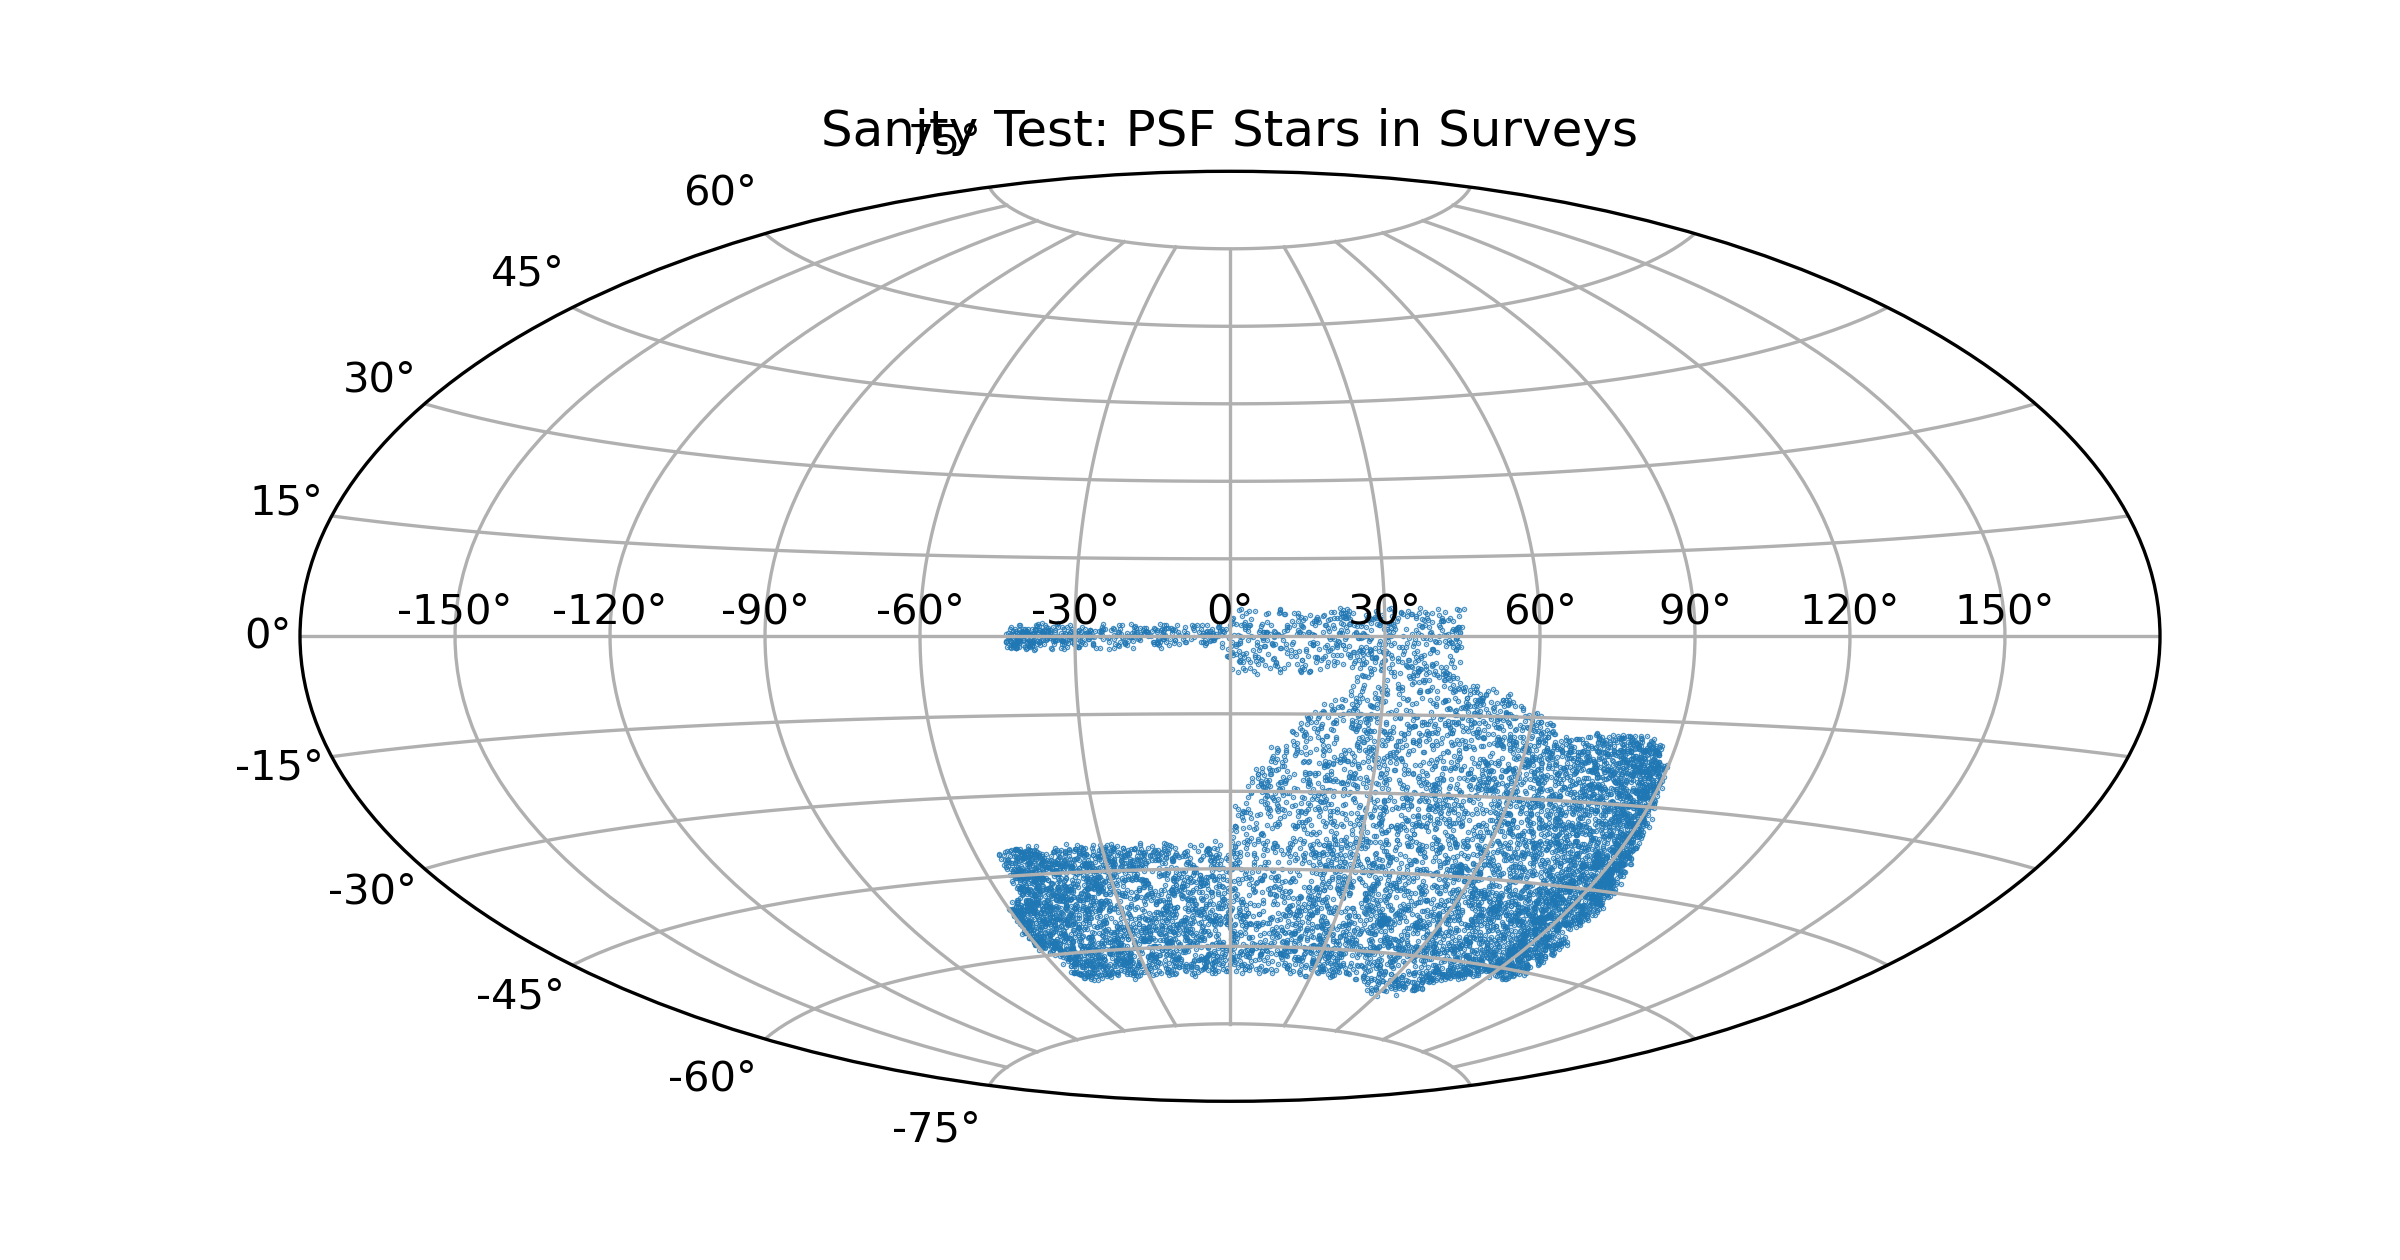
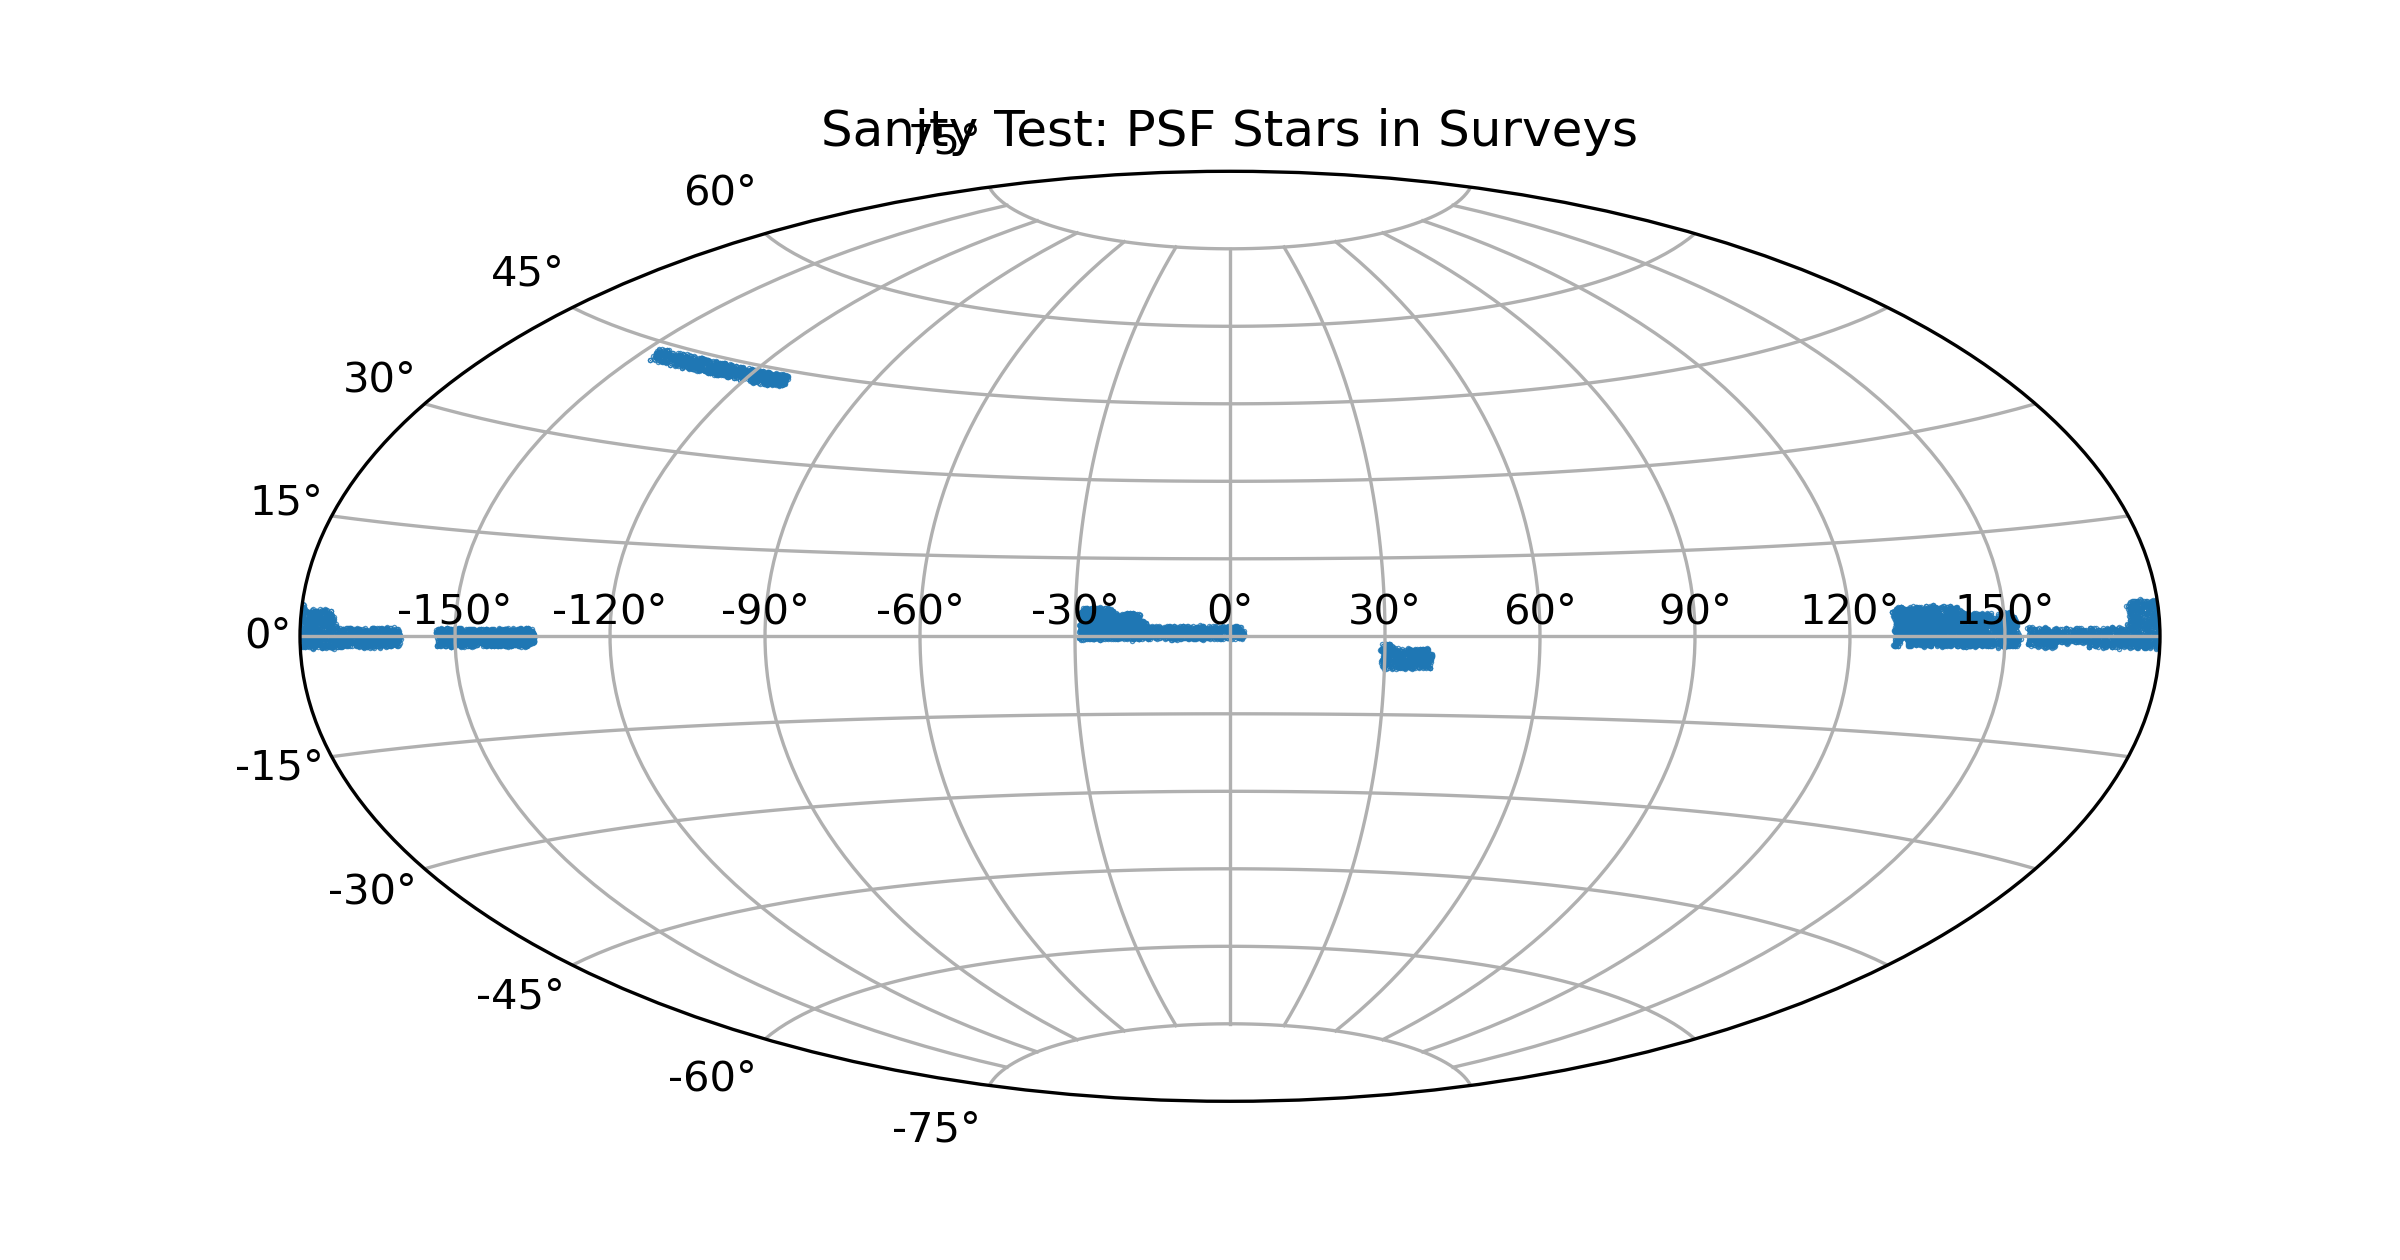
many changes for hscy3 files

diff --git a/src/query_hscy3.py b/src/query_hscy3.py
@@ -16,6 +16,7 @@ import match
 BAND = 'i'
 PSF_DATA_FILEPATH = "../../psf_data/hscy3_allfields.h5"
 RESULTS_FILEPATH = "../results/"
+NUMBER_OF_CLUSTERS = 10
 TOTAL_SUBSAMPLE_SIZE = 1000000
 MATCH_LIM = 1 * u.arcsec
 INT_DATA_PATH = "../../int_data/"
@@ -39,15 +40,16 @@ def read_hscy3_h5(file_path, n = int(1e6)):
     
     return pd.DataFrame(data)
 
-print("Starting DES Gaia Crossmatch for Band " + str(BAND) + ".")
 
-# Alter results filepath to include band
-RESULTS_FILEPATH_BAND = RESULTS_FILEPATH + str(BAND) + "band_hscy3" + "/"
-INT_DATA_PATH_BAND = INT_DATA_PATH + str(BAND) + "data_hscy3" + "/"
+print("Starting DES Gaia Crossmatch for Band " + str(BAND) + ".")
 
 # Read in DES Data
 des = read_hscy3_h5(PSF_DATA_FILEPATH, n = TOTAL_SUBSAMPLE_SIZE)
 print("Data read in.")
+
+# Save des subsample in int_data/des
+des.to_csv(INT_DATA_PATH + "hscy3/" + "hscy3_" + str(BAND) + ".csv")
+print("Subsample saved.")
 
 # Load centroids array from int_data
 centroids = np.load(INT_DATA_PATH + "hscy3_centroids.npy")
@@ -56,23 +58,25 @@ centroids = np.load(INT_DATA_PATH + "hscy3_centroids.npy")
 cluster_num_array, cluster_info = match.get_assignments(des, centroids)
 print("DES Stars Assigned.")
 
-# Match Gaia for stars in the clusters 
-for i in range(centroids.shape[0]):
-    print("Cluster " + str(i) + ":", end = ' ')
-    gaia0_tab = pd.read_feather(INT_DATA_PATH + "gaia_hscy3/" + "gaia_hscy3_" + str(i) + ".feather")
-    comb_clusteri = match.match_cluster_to_gaia(gaia0_tab, des, cluster_num_array, cluster_info, i)
-    print("Matched.")
-    comb_clusteri.to_csv(INT_DATA_PATH + str(BAND) + "data_hscy3/" + "cluster_" + str(BAND) + "_" + str(i) + ".csv")
+# Save cluster_num_array and cluster_info in int_data
+np.save(INT_DATA_PATH + "cluster_num_array_hscy3" + str(BAND) + ".npy", cluster_num_array)
+cluster_info.to_csv(INT_DATA_PATH + "cluster_info.csv")
+
+# Plot the clusters with color
+ra_dec = np.array([des['ra'], des['dec']]).T
+match.plot_cluster_test(ra_dec, centroids, cluster_num_array, fold = RESULTS_FILEPATH, BAND = BAND)
+
+# Query Gaia for each cluster
+# for cluster_num in range(centroids.shape[0]):
+for cluster_num in [88, 166]:
+    clust0_info = cluster_info.loc[cluster_num]
+    print("R = {:.3f}".format(clust0_info["max_dist"]), end = ' | ')
+    gaia0_tab = match.query_gaia_for_cluster(clust0_info["centroids"][0], 
+                                       clust0_info["centroids"][1], 
+                                       clust0_info["max_dist"],
+                                       verbose=False)
+    print("Queried.", end = ' ')
     
-
-# Concatenate all the clusters
-master_comb_df = match.concatenate_int_data(INT_DATA_PATH_BAND)
-master_comb_df.to_csv(RESULTS_FILEPATH_BAND + "DES_MATCH_BAND" + str(BAND) + ".csv")
-print("Concatenated Master DF.")
-
-# Plot matching tests and results
-match.sanity_separation_test(master_comb_df, fold = RESULTS_FILEPATH_BAND, BAND = BAND)
-match.plot_match_completeness(master_comb_df, fold = RESULTS_FILEPATH_BAND, BAND = BAND)
-match.galaxy_ratio_plot(master_comb_df, fold = RESULTS_FILEPATH_BAND, BAND = BAND)
-print("Plotting Complete.")
-
+    # Save the gaia table in int_data
+    gaia0_tab.to_feather(INT_DATA_PATH + "gaia_hscy3/" + "gaia" + str(cluster_num) + ".feather")
+    print("Saved.")

diff --git a/src/cluster_hscy3.py b/src/cluster_hscy3.py
@@ -1,0 +1,55 @@
+from astropy.io import fits
+import pandas as pd
+from astropy.coordinates import SkyCoord
+import astropy.units as u
+import matplotlib.pyplot as plt
+import numpy as np
+from scipy.cluster.vq import vq, kmeans
+import scipy
+import os
+import h5py as h5
+
+import match
+
+# Choose a band for the clustering to be based on - 'g', 'r', 'i', 'z', 'y'
+BAND = 'i'
+
+PSF_DATA_FILEPATH = "../../psf_data/hscy3_allfields.h5"
+RESULTS_FILEPATH = "../results/"
+CLUSTER_SUBSAMPLE_SIZE = 10000
+NUMBER_OF_CLUSTERS = 10
+INT_DATA_PATH = "../../int_data/"
+
+def read_hscy3_h5(file_path, n = int(1e6)):
+    """
+    Read an h5 file and return the data as a pandas dataframe.
+    Args:
+        file_path: path to the h5 file
+    Returns:
+        data: pandas dataframe with the data from the h5 file
+    """
+    with h5.File(file_path, 'r') as f:
+        # Read specific fields
+        idx = np.random.choice(np.arange(len(f['stars/mag_i'])), size = n, replace = False)
+        mag_i = np.array(f['stars/mag_i'])[idx]
+        ra = np.array(f['stars/ra'])[idx]
+        dec = np.array(f['stars/dec'])[idx]
+        data = {'ra': ra, 'dec': dec, 'mag': mag_i}
+        data['coord'] = SkyCoord(ra=data['ra'], dec=data['dec'], unit = 'deg')
+    
+    return pd.DataFrame(data)
+
+print("Starting DES Gaia Crossmatch for Band " + str(BAND) + ".")
+
+# Read in DES Data
+des = read_hscy3_h5(PSF_DATA_FILEPATH, n = CLUSTER_SUBSAMPLE_SIZE)
+print("Data read in.")
+
+# Plot location of subsample of PSF stars
+match.plot_sanity_test(des['coord'], fold = RESULTS_FILEPATH, BAND = BAND)
+
+# Perform clustering on subsample of PSF stars
+centroids = match.perform_clustering(des, NUMBER_OF_CLUSTERS, CLUSTER_SUBSAMPLE_SIZE)
+
+# Save centroids array to int_data
+np.save(INT_DATA_PATH + "hscy3_centroids.npy", centroids)
